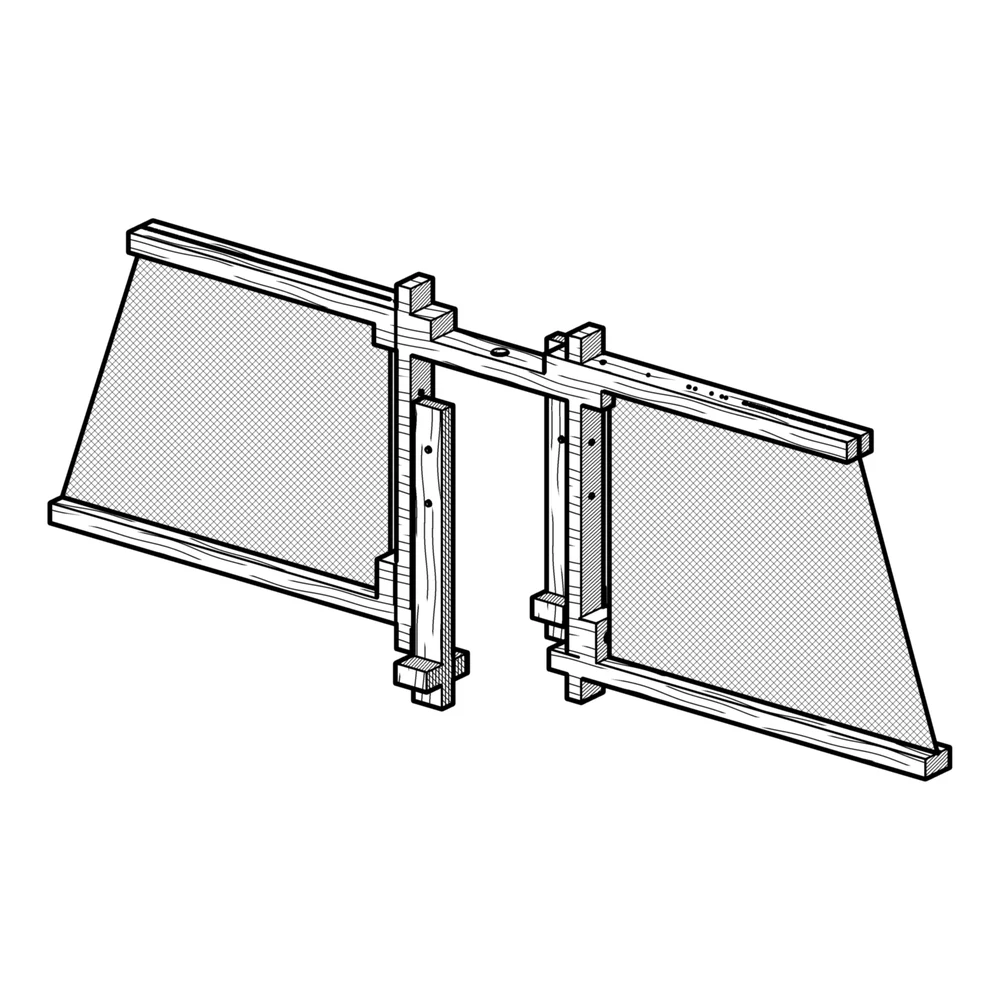
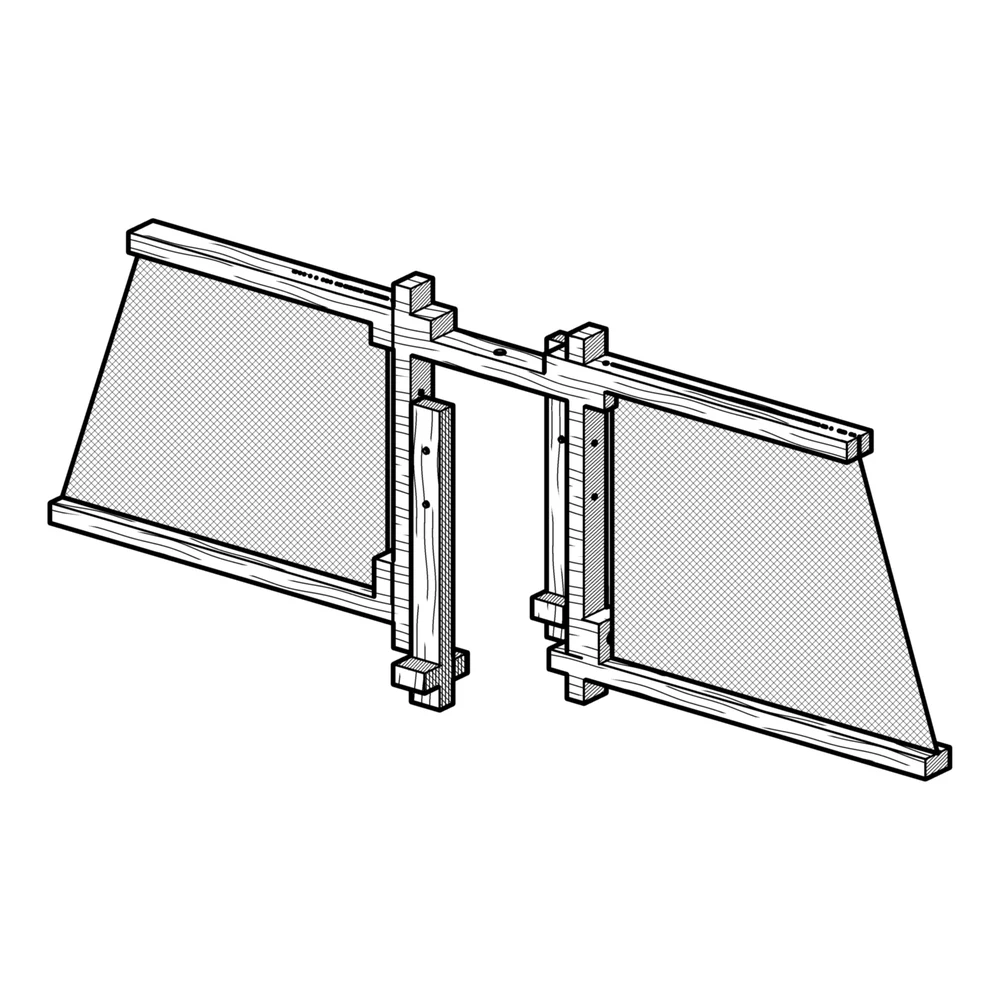
Updating for 12mm wood on sail apparatus

diff --git a/generator/objects/sails.py b/generator/objects/sails.py
@@ -71,7 +71,7 @@ OBJECT_TYPE = "sails"
 
 # The sail frame's own design version (common.DESIGN_VERSION stays 3.2 for the
 # sail cutout): 4.0 = the split top crossbar of turtle_body v6.0.0-v6.3.4.
-DESIGN_VERSION = "4.0"
+DESIGN_VERSION = "4.1"
 
 SUPPORTED_FORMATS: Tuple[str, ...] = ("scad", "svg", "dxf", "pdf")
 
@@ -800,8 +800,9 @@ SAILS_ILLUSTRATION = Path(__file__).resolve().parents[2] / "public" / "images" /
 def _load_illustration():
     """The assembly illustration as (ImageReader, (px_w, px_h)), or None.
 
-    Converted to greyscale (it is line art) and downscaled to roughly 2x its
-    printed size so it doesn't bloat the PDF."""
+    Converted to greyscale (it is line art), cropped to the drawing (the
+    render is a square card with wide blank bands) and downscaled to roughly
+    2x its printed size so it doesn't bloat the PDF."""
     try:
         from PIL import Image
         from reportlab.lib.utils import ImageReader
@@ -809,7 +810,12 @@ def _load_illustration():
         # Flatten the drawing's off-white paper tone to pure white so it
         # doesn't print as a grey box on the sheet.
         img = Image.open(SAILS_ILLUSTRATION).convert("L").point(lambda v: 255 if v > 225 else v)
-        img.thumbnail((720, 720))
+        bbox = img.point(lambda v: 255 - v).getbbox()
+        if bbox:
+            pad = 8
+            img = img.crop((max(bbox[0] - pad, 0), max(bbox[1] - pad, 0),
+                            min(bbox[2] + pad, img.width), min(bbox[3] + pad, img.height)))
+        img.thumbnail((1000, 1000))
         return ImageReader(img), img.size
     except Exception:
         return None
@@ -1171,7 +1177,8 @@ def write_pdf(path: Path, inputs: SailsInputs, d: SailsDerived, *, font_dir: Opt
     while gap > row_gap and column_bottom(scale, gap) < col_bottom:
         gap -= 1
     y = body_top
-    top_bar_bottom, rows_right = body_top, ox
+    top_bar_bottom = body_top
+    row_extents = []   # (bottom incl. dimensions, right edge) of each batten row
     for n, row in enumerate(rows):
         if n == 1:
             y = min(y, box_bottom - row_gap)
@@ -1184,22 +1191,32 @@ def write_pdf(path: Path, inputs: SailsInputs, d: SailsDerived, *, font_dir: Opt
         if n == 1:
             top_bar_bottom = y + gap
         if n >= 2:   # the batten rows share the bottom half with the image
-            rows_right = max(rows_right, px - side_gap)
+            row_extents.append((oy - row_below(row), px - side_gap))
 
-    # Assembly illustration, bottom-right corner, in the open space under
-    # the Top Sail Bar and right of the side parts. Skipped if the image or
-    # Pillow is unavailable.
+    # Assembly illustration in the open bottom-right corner, as large as it
+    # fits. Each candidate region runs from the bottom of the sheet up to
+    # under the Top Sail Bar row, or up to under one of the batten rows, and
+    # sits right of every batten row below that point; the image takes the
+    # one it fills largest, centred in it. Skipped if the image or Pillow is
+    # unavailable.
     illustration = _load_illustration()
     if illustration is not None:
         img_reader, (px_w, px_h) = illustration
-        img_h = min(
-            156.0,
-            top_bar_bottom - row_gap - draw_bottom,
-            (draw_right - rows_right - 24) * px_h / px_w,
-        )
-        if img_h > 0:
+        clear = 16
+        ceilings = [top_bar_bottom] + [bottom for bottom, _ in row_extents]
+        best = None
+        for i, ceiling in enumerate(ceilings):
+            left = max((right for _, right in row_extents[i:]), default=ox) + clear
+            region_w = draw_right - left
+            region_h = ceiling - row_gap - draw_bottom
+            img_h = min(region_h, region_w * px_h / px_w)
+            if img_h > 0 and (best is None or img_h > best[0]):
+                best = (img_h, left, region_w, region_h)
+        if best is not None:
+            img_h, left, region_w, region_h = best
             img_w = img_h * px_w / px_h
-            c.drawImage(img_reader, draw_right - img_w, draw_bottom, img_w, img_h)
+            c.drawImage(img_reader, left + (region_w - img_w) / 2,
+                        draw_bottom + (region_h - img_h) / 2, img_w, img_h)
 
     c.setFont(body_font, 6)
     c.setFillColor(colors.HexColor("#555555"))

diff --git a/generator/SYNC_LOG.md b/generator/SYNC_LOG.md
@@ -9,7 +9,7 @@ Format: `- YYYY-MM-DD · turtle_body vX.Y.Z · <component> · <what changed upst
 
 ## Entries
 
-- 2026-10-30 · v6.5.0 · Sails (+ sail cutout) · Sail battens are cut from the builder's board like every other slat: `p_side_batten_radial_t()` 10 → `p_wood_t()`, and `sail_frame()`'s `top_sail_bar_slot_width` reads `board_width` instead of a literal 10. Every batten slot (crossbar halves, connector, bottom rails, C pieces) is now t (12 at defaults, was a fixed 10 whatever the board); slot inner edges stay on the cage notch root, so the connector grows 2t + 30 + 2·root (159.6 → 163.6), C pieces +2, sails' inner edge +2; halves (212.2), rails, batten heights and cage holes unchanged. `objects/sails.py`: `BATTEN_THICKNESS` / `TOP_BAR_SLOT_WIDTH` / `BOTTOM_BAR_SLOT_WIDTH` constants removed, new `derived.batten_thickness = t`; PDF header/intro no longer say "10mm stock". `sail_cutout.py` follows through `sails.derive_dimensions()`. `check_params_sync.py` 81 rows (+`p_side_batten_radial_t`). Verified: defaults match the bundle's echo (connector 163.6, halves 212.2); t = 15 gives 15 mm slots. `sail-frame*.webp` previews not re-rendered (2 mm shift) · status: synced (uncommitted)
+- 2026-10-30 · v6.5.0 · Sails (+ sail cutout) · Sail battens are cut from the builder's board like every other slat: `p_side_batten_radial_t()` 10 → `p_wood_t()`, and `sail_frame()`'s `top_sail_bar_slot_width` reads `board_width` instead of a literal 10. Every batten slot (crossbar halves, connector, bottom rails, C pieces) is now t (12 at defaults, was a fixed 10 whatever the board); slot inner edges stay on the cage notch root, so the connector grows 2t + 30 + 2·root (159.6 → 163.6), C pieces +2, sails' inner edge +2; halves (212.2), rails, batten heights and cage holes unchanged. `objects/sails.py`: `BATTEN_THICKNESS` / `TOP_BAR_SLOT_WIDTH` / `BOTTOM_BAR_SLOT_WIDTH` constants removed, new `derived.batten_thickness = t`; PDF header/intro no longer say "10mm stock". `sail_cutout.py` follows through `sails.derive_dimensions()`. `check_params_sync.py` 81 rows (+`p_side_batten_radial_t`). Verified: defaults match the bundle's echo (connector 163.6, halves 212.2); t = 15 gives 15 mm slots. `sail-frame.webp` / `sail-frame-high.webp` re-rendered; sheet design v4.0 → v4.1 (assembly illustration cropped to the drawing and sized to the largest open region of the sheet) · status: synced (uncommitted)
 - 2026-10-22 · v5.8.0–v6.3.5 · Sails + Head Fin (new) + all · **Sails:** turtle_body v6.0.0 split the 6·bd top crossbar into two halves on a centre *sail crossbar connector* (Ø9 shaft clearance hole, M3 side clamp in a Ø2.8 pilot, one M3 per half through Ø3.2 into a Ø2.8 pilot), sail battens 205 → 205 + t with a 2t two-layer upper notch (15 mm above it), non-sail battens cut flush with the cage roof (178), bottom rails 3·bd → 3·bd + t (264), sails 12 mm taller; the cage hub set screw is off. `generate_sails.py` no longer carries a hand-copied SCAD template: `build_scad()` writes the vendored `Turtle_Sail_Apparatus.scad` with the builder's dimensions overridden in its `p_*()` functions (new `generator/turtle_body_bundle.py`). `objects/sails.py`: parts Top Sail Bar Half ×2 + Sail Crossbar Connector ×1 replace Top Sail Bar ×1; `side_batten_height` TUNING → None = derive 205 + t (also in `sail_cutout.py`); new derived fields; SVG/DXF/PDF redrawn (sheet design v4.0, new rendered assembly illustration `public/images/ecojoiners/sail-frame-high.webp`). **Head Fin (new, experimental):** `object_type: "head_fin"` — `head_fin_generator.py` (rules + SCAD from the vendored `Turtle_Head_Fin.scad`, reusing `back_fin_generator`'s port-height/M5-pair/hole rules so the slats follow "Adjust connection") and `objects/head_fin.py` (SVG/DXF/PDF). Upstream v6.3.5 moved the slats to ±`p_port_height()`/2 so the fit offset positions them correctly. Wired into `generate_exports.py`, `mapHeadFinFields` + `PART_QUANTITIES_BY_TYPE.head_fin`, the Step 4 card (`views/generate.ejs`, `public/images/ecojoiners/head-fin.webp`), `public/js/ecojoiner-generate.js` (field order, preview rows), en/id/tr locale keys, cleanup prefix `headfin_` (and the missing `sailcutout_`). **Others:** rear fin, ballast and 6FC re-checked against the 6.3.5 snapshot — only cap/cage/sail/head-fin values changed upstream, so no change. `check_params_sync.py` now 80 rows (split-crossbar constants, rail/crossbar lengths, head fin). Verified: every object generates PDF/SCAD/SVG/DXF; generated head-fin and sail SCAD renders with no ERROR/WARNING and every part's bounds equal turtle_body's (defaults) and the Python derivation (t 15, bd 90, fit −3, board 120); SVG/DXF geometry parsed back; head fin + sails PDFs inspected. **Limit:** the head fin profile needs 7·t < board width (13.3 mm max wood at a 93 mm board) — it is rejected with a message otherwise · status: synced (uncommitted)
 - 2026-10-12 · v5.7.0 · Rear fin + all wooden generators · Yellow rear fin is now one board wide (`rf_fin_width() = p_fin_board_w()`; was board + 15 mm `p_rear_fin_tab_width()`, so a 96 mm max board produced a 111 mm fin). Cascade: shaft rear X / solar notch 84 → 69, shafts 418 → 403, half-lap 42 → 34.5; John hole pair unmoved. Synced `back_fin_generator.py` (TUNING `fin_rear_tab_width` removed, SCAD `fin_width`, assert, `dimensions()`) and `objects/back_fin.py` (field, `derive_dimensions()`, validation). **New:** `common.board_width_errors()`: every wooden generator now rejects a part whose narrower 2D extent exceeds the form's max board width (fin: fin/shaft/solar holder via `fin_board_width`; ballast: slat/board/foot/fin; 6FC: John/Final Key and sails: bars/batten/strengthener/C piece via new optional `board_max_width`, forwarded by `utils/ecojoinerGenerator.js`). Verified: fin at 96 → PDF "Fin: 96 x 252mm", shaft 408, generated SCAD fin renders 96 × 12 × 252; ballast/sails at 96 pass; 6FC at 50 rejected with a clear message; `check_params_sync.py` 55/55 · status: synced (uncommitted)
 - 2026-10-11 · v5.6.0 · Ballast · Green core slat's upper 45° shoulder cut now begins `max(port_height, port_length) + t` below the slat top (`bl_upper_diag_from_top()`; 96 at defaults, was one port height = 84, which put the cut 10 mm inside the outer John). Synced `bottom_ballast_fin_generator.py` (`upper_diagonal_start_z` + module docstring) and `objects/ballast.py::derive_dimensions()` (uses the fit-adjusted `ph`). Verified: fit 0 → cut 96 from top (identical to lib's profile), fit −3 → 94 (exactly the John end); both generated SCADs parse clean; PDF shows 96 mm; `check_params_sync.py` 55/55 · status: synced (uncommitted)
